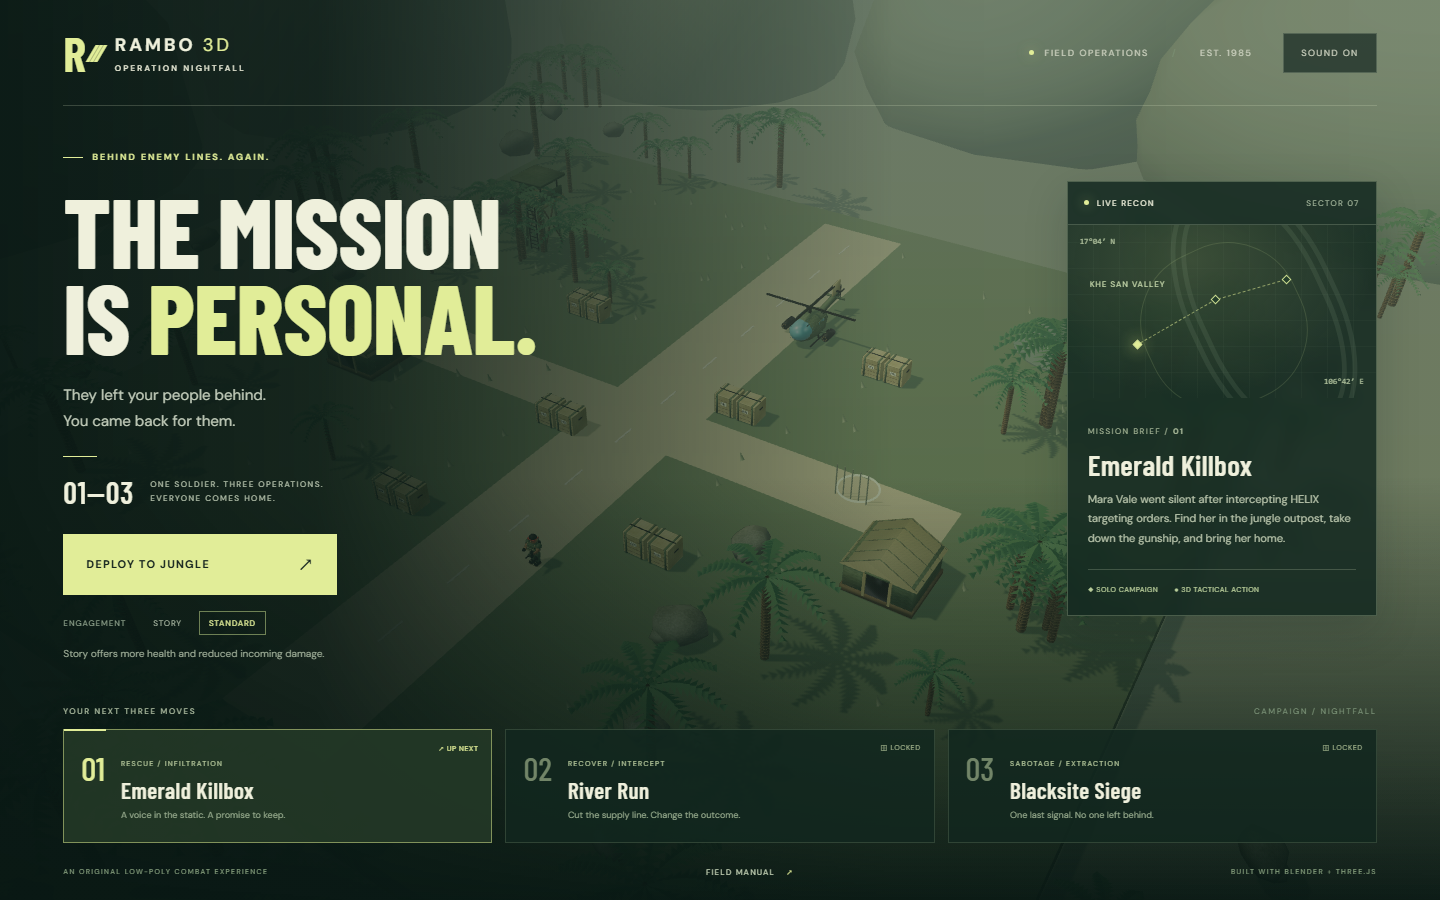
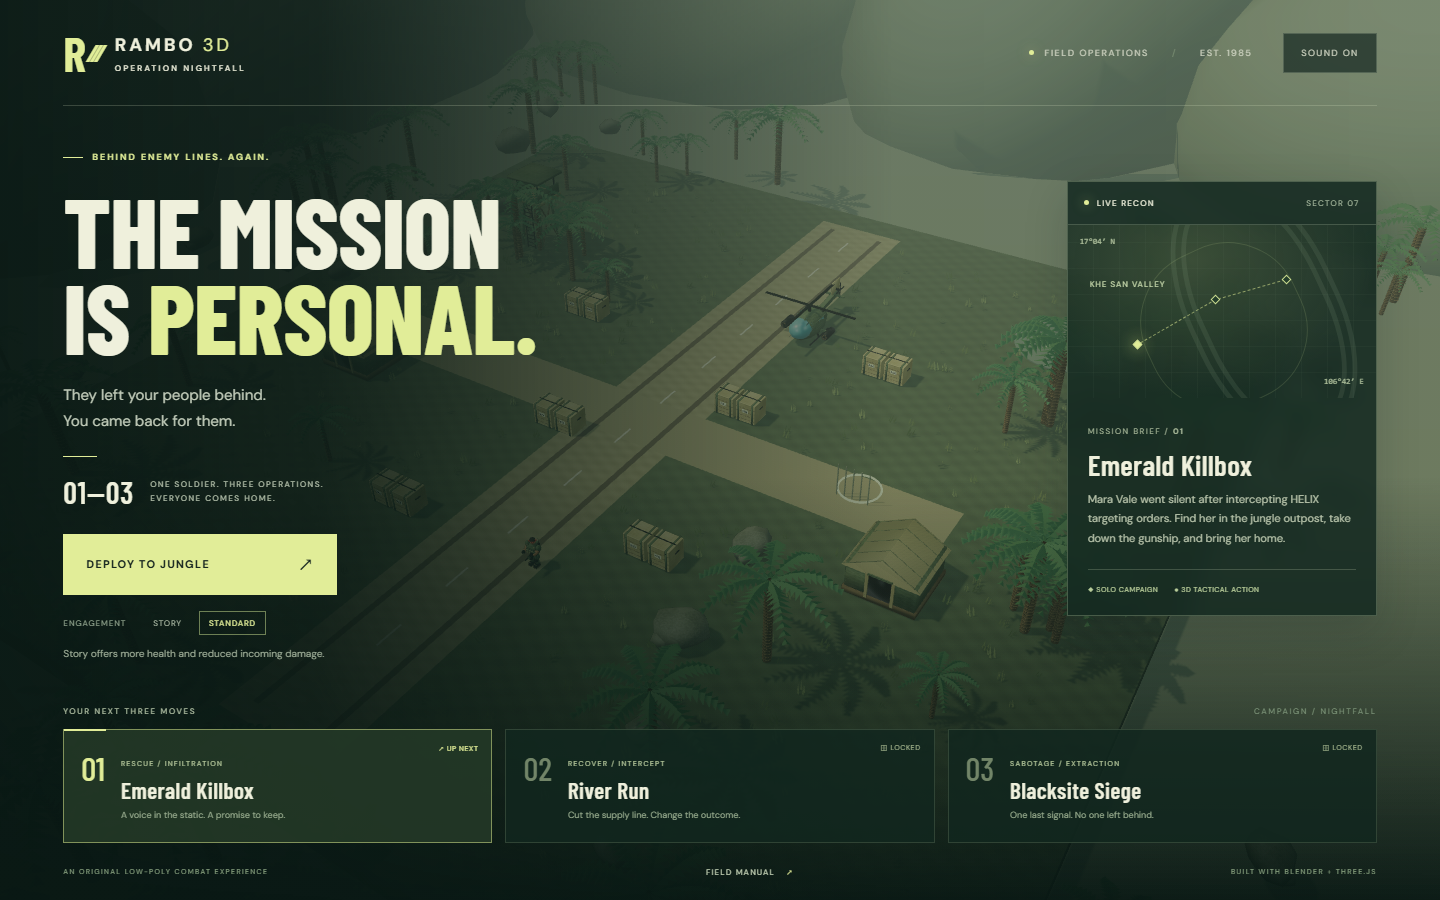
Improve environment surfaces vegetation water and combat effects

diff --git a/src/world.ts b/src/world.ts
@@ -1,3 +1,4 @@
+import { surface, grassGeometry } from "./surfaces";
 import * as T from "three";
 import { RoomEnvironment } from "three/addons/environments/RoomEnvironment.js";
 import { GLTFLoader } from "three/addons/loaders/GLTFLoader.js";
@@ -86,6 +87,10 @@ export function model(name: string, x = 0, z = 0, scale = 1) {
 export class World {
   scene = new T.Scene();
   private missionIndex = 0;
+  private soilMap = surface("soil");
+  private roadMap = surface("road");
+  private waterMap = surface("water");
+  private wind = { value: 0 };
   camera = new T.PerspectiveCamera(43, 1, 0.1, 230);
   renderer: T.WebGLRenderer;
   terrain = new T.Group();
@@ -178,7 +183,14 @@ export class World {
     const mission = MISSIONS[index];
     this.scene.background = new T.Color(mission.fog);
     this.scene.fog = new T.FogExp2(mission.fog, 0.009);
-    const ground = this.mat(mission.ground);
+    this.soilMap.repeat.set(18, 18);
+    this.roadMap.repeat.set(2, 22);
+    this.waterMap.repeat.set(9, 2);
+    const ground = this.mat(mission.ground, {
+      map: this.soilMap,
+      bumpMap: this.soilMap,
+      bumpScale: 0.09,
+    });
     this.mesh(new T.BoxGeometry(66, 1.6, 66), ground, 0, -0.85, 0);
     this.mesh(
       new T.PlaneGeometry(240, 240),
@@ -187,11 +199,19 @@ export class World {
       -1.68,
       0,
     ).rotation.x = -Math.PI / 2;
-    const road = this.mat(index === 2 ? 0x797767 : 0x8b8960);
+    const road = this.mat(index === 2 ? 0x797767 : 0x8b8960, {
+      map: this.roadMap,
+      bumpMap: this.roadMap,
+      bumpScale: 0.035,
+    });
     this.mesh(new T.PlaneGeometry(7, 61), road, 0, 0.005, 0).rotation.x =
       -Math.PI / 2;
     this.mesh(new T.PlaneGeometry(42, 4.5), road, 0, 0.015, 1).rotation.x =
       -Math.PI / 2;
+    const rut = this.mat(0x514c39, { map: this.roadMap, roughness: 1 });
+    for (const x of [-2.1, 2.1])
+      this.mesh(new T.PlaneGeometry(0.38, 59), rut, x, 0.018, 0).rotation.x =
+        -Math.PI / 2;
     // Broken center-line markings give the miniature road a readable scale.
     const line = this.mat(0xbab88a);
     for (let z = -27; z < 28; z += 5)
@@ -199,7 +219,12 @@ export class World {
     if (index === 1) {
       this.water = this.mesh(
         new T.PlaneGeometry(66, 7),
-        this.mat(0x438f91, { metalness: 0.32, roughness: 0.25 }),
+        this.mat(0x28545a, {
+          metalness: 0.42,
+          roughness: 0.19,
+          bumpMap: this.waterMap,
+          bumpScale: 0.18,
+        }),
         0,
         0.04,
         -14,
@@ -252,13 +277,32 @@ export class World {
       g.rotation.y = rand() * 6.28;
       this.terrain.add(g);
     }
-    const grass = this.mat(0x71805a);
-    for (let i = 0; i < 95; i++) {
+    const grass = this.mat(0x657644, { side: T.DoubleSide });
+    grass.onBeforeCompile = (shader) => {
+      shader.uniforms.windTime = this.wind;
+      shader.vertexShader = "uniform float windTime;\n" + shader.vertexShader;
+      shader.vertexShader = shader.vertexShader.replace(
+        "#include <begin_vertex>",
+        "#include <begin_vertex>\n transformed.x += sin(windTime*1.4+position.x*2.0+position.z)*0.045*max(0.0,position.y);",
+      );
+    };
+    for (let i = 0; i < 650; i++) {
       const x = (rand() - 0.5) * 58,
         z = (rand() - 0.5) * 58;
-      if (Math.abs(x) < 4) continue;
-      const o = this.mesh(new T.ConeGeometry(0.18, 0.6, 3), grass, x, 0.27, z);
-      o.rotation.z = 0.2;
+      if (
+        Math.abs(x) < 4 ||
+        Math.abs(z - 1) < 2.5 ||
+        (index === 1 && Math.abs(z + 14) < 4) ||
+        COVER.some(
+          (b) =>
+            Math.abs(x - b.x) < b.w / 2 + 0.4 &&
+            Math.abs(z - b.z) < b.d / 2 + 0.4,
+        )
+      )
+        continue;
+      const o = this.mesh(grassGeometry(), grass, x, 0.01, z);
+      o.rotation.y = rand() * Math.PI * 2;
+      o.scale.setScalar(0.7 + rand() * 0.8);
     }
     for (let i = 0; i < 12; i++) {
       const a = (i * Math.PI * 2) / 12;
@@ -351,6 +395,11 @@ export class World {
     this.renderer.setSize(innerWidth, innerHeight);
   }
   render(time: number, focus: T.Vector3, menu: boolean, reduced: boolean) {
+    this.wind.value = reduced ? 0 : time;
+    this.waterMap.offset.set(
+      reduced ? 0 : time * 0.012,
+      reduced ? 0 : time * 0.006,
+    );
     const target = menu ? new T.Vector3(6, 0, 1) : focus;
     const desired = menu
       ? new T.Vector3(40 + (reduced ? 0 : Math.sin(time * 0.07) * 2), 43, 51)

diff --git a/src/game.ts b/src/game.ts
@@ -51,6 +51,8 @@ type Effect = {
   mesh: T.Mesh<T.IcosahedronGeometry, T.MeshBasicMaterial>;
   life: number;
   max: number;
+  velocity?: T.Vector3;
+  smoke?: boolean;
 };
 export class Game {
   world: World;
@@ -223,10 +225,39 @@ export class Game {
         0.7 + Math.random(),
         z + (Math.random() - 0.5) * (big ? 2 : 0.5),
       );
-      mesh.scale.setScalar(big ? 1.7 : 1);
+      mesh.scale.setScalar(big ? 1.4 : 0.35);
       this.world.actors.add(mesh);
-      this.effects.push({ mesh, life: 0.3 + Math.random() * 0.3, max: 0.6 });
+      this.effects.push({
+        mesh,
+        life: 0.3 + Math.random() * 0.3,
+        max: 0.6,
+        velocity: new T.Vector3(
+          (Math.random() - 0.5) * 5,
+          2 + Math.random() * 3,
+          (Math.random() - 0.5) * 5,
+        ),
+      });
     }
+    if (big)
+      for (let i = 0; i < 8; i++) {
+        const mesh = new T.Mesh(this.effectGeo, this.effectMat.clone());
+        mesh.material.color.setHex(0x55534d);
+        mesh.material.depthWrite = false;
+        mesh.position.set(
+          x + (Math.random() - 0.5),
+          0.7,
+          z + (Math.random() - 0.5),
+        );
+        mesh.scale.setScalar(2 + Math.random());
+        this.world.actors.add(mesh);
+        this.effects.push({
+          mesh,
+          life: 1.8,
+          max: 1.8,
+          smoke: true,
+          velocity: new T.Vector3(0.25, 1.1 + Math.random(), 0.15),
+        });
+      }
     this.onSound(big ? "explosion" : "hit");
   }
   shoot(
@@ -237,6 +268,17 @@ export class Game {
     damage: number,
     speed = enemy ? 11 : 45,
   ) {
+    const flash = new T.Mesh(this.effectGeo, this.effectMat.clone());
+    flash.position.set(
+      x + Math.sin(angle) * 0.7,
+      1.1,
+      z + Math.cos(angle) * 0.7,
+    );
+    flash.scale.set(0.32, 0.32, 0.8);
+    flash.rotation.y = angle;
+    flash.material.color.setHex(0xffe8a5);
+    this.world.actors.add(flash);
+    this.effects.push({ mesh: flash, life: 0.055, max: 0.055 });
     const mesh = new T.Mesh(
       this.bulletGeo,
       enemy ? this.bulletEnemy : this.bulletFriendly,
@@ -725,9 +767,13 @@ export class Game {
     for (let i = this.effects.length - 1; i >= 0; i--) {
       const e = this.effects[i];
       e.life -= dt;
-      e.mesh.position.y += dt * 1.8;
-      e.mesh.scale.multiplyScalar(1 + dt * 2);
-      e.mesh.material.opacity = Math.max(0, e.life / e.max);
+      if (e.velocity) {
+        e.mesh.position.addScaledVector(e.velocity, dt);
+        if (!e.smoke) e.velocity.y -= dt * 8;
+      } else e.mesh.position.y += dt * 1.8;
+      e.mesh.scale.multiplyScalar(1 + dt * (e.smoke ? 0.7 : 2));
+      e.mesh.material.opacity =
+        Math.max(0, e.life / e.max) * (e.smoke ? 0.45 : 1);
       if (e.life <= 0) {
         this.world.actors.remove(e.mesh);
         e.mesh.material.dispose();

diff --git a/src/surfaces.ts b/src/surfaces.ts
@@ -1,0 +1,63 @@
+import * as T from "three";
+/** Deterministic tileable surface maps shared by the three environments. */
+export function surface(kind: "soil" | "road" | "water") {
+  const size = 256,
+    data = new Uint8Array(size * size * 4);
+  const noise = (x: number, y: number, n: number) => {
+    const fx = (x / size) * n,
+      fy = (y / size) * n,
+      ix = Math.floor(fx),
+      iy = Math.floor(fy);
+    const smooth = (v: number) => v * v * (3 - 2 * v),
+      u = smooth(fx - ix),
+      v = smooth(fy - iy);
+    const h = (a: number, b: number) => {
+      const t = Math.sin((a % n) * 127.1 + (b % n) * 311.7) * 43758.5453;
+      return t - Math.floor(t);
+    };
+    return (
+      (h(ix, iy) * (1 - u) + h(ix + 1, iy) * u) * (1 - v) +
+      (h(ix, iy + 1) * (1 - u) + h(ix + 1, iy + 1) * u) * v
+    );
+  };
+  let seed = kind === "soil" ? 771 : 91;
+  for (let y = 0; y < size; y++)
+    for (let x = 0; x < size; x++) {
+      seed = (seed * 16807) % 2147483647;
+      const grain = seed / 2147483647;
+      const wave = Math.sin(
+        (x / size) * Math.PI * 12 + Math.sin((y / size) * Math.PI * 8),
+      );
+      const large =
+        Math.sin((x / size) * Math.PI * 4) * Math.cos((y / size) * Math.PI * 6);
+      const value =
+        kind === "water"
+          ? 128 + wave * 36 + large * 16
+          : 165 + grain * 16 + noise(x, y, 5) * 22 + noise(x, y, 17) * 12;
+      const i = (y * size + x) * 4;
+      data[i] = data[i + 1] = data[i + 2] = value;
+      data[i + 3] = 255;
+    }
+  const texture = new T.DataTexture(data, size, size, T.RGBAFormat);
+  texture.wrapS = texture.wrapT = T.RepeatWrapping;
+  texture.magFilter = T.LinearFilter;
+  texture.minFilter = T.LinearMipmapLinearFilter;
+  texture.generateMipmaps = true;
+  texture.needsUpdate = true;
+  return texture;
+}
+/** Crossed, tapered grass blades with a rooted wind deformation. */
+export function grassGeometry() {
+  const vertices: number[] = [];
+  for (let i = 0; i < 5; i++) {
+    const a = i * 2.4,
+      x = Math.cos(a) * 0.13,
+      z = Math.sin(a) * 0.13,
+      h = 0.25 + i * 0.06;
+    vertices.push(x - 0.045, 0, z, x + 0.045, 0, z, x + 0.09, h, z + 0.06);
+  }
+  const geometry = new T.BufferGeometry();
+  geometry.setAttribute("position", new T.Float32BufferAttribute(vertices, 3));
+  geometry.computeVertexNormals();
+  return geometry;
+}

diff --git a/tests/environment.spec.ts b/tests/environment.spec.ts
@@ -1,0 +1,31 @@
+import { test, expect } from "@playwright/test";
+test("river surfaces render without shader errors and transient effects expire", async ({
+  page,
+}) => {
+  const errors: string[] = [];
+  page.on("pageerror", (e) => errors.push(e.message));
+  page.on("console", (m) => {
+    if (m.type() === "error") errors.push(m.text());
+  });
+  await page.goto("/");
+  await expect(page.locator("#deploy")).toBeEnabled();
+  await page.locator("#deploy").click();
+  const result = await page.evaluate(() => {
+    const { game: g, world: w, input } = (window as any).__nightfall;
+    g.start(1, { armor: 0, power: 0, mobility: 0 }, "story");
+    g.onSound = () => {};
+    g.enemies.forEach((e: any) => (e.hp = 0));
+    g.pos.set(0, 0.36, -14);
+    g.spark(5, -12, true);
+    const smoke = g.effects.filter((e: any) => e.smoke).length;
+    for (let i = 0; i < 150; i++)
+      g.update(1 / 60, { ...input, x: 0, z: 0, fire: false });
+    w.render(5, g.pos, false, false);
+    return { smoke, effects: g.effects.length, water: !!w.water };
+  });
+  expect(result.smoke).toBe(8);
+  expect(result.effects).toBe(0);
+  expect(result.water).toBe(true);
+  await page.screenshot({ path: "docs/environment-upgrade.png" });
+  expect(errors).toEqual([]);
+});

diff --git a/docs/ENVIRONMENT_UPGRADE.md b/docs/ENVIRONMENT_UPGRADE.md
@@ -1,0 +1,7 @@
+# Environment and combat presentation pass
+
+Implemented textured soil/road shading with shared procedural surface maps, road tire ruts, tapered grass clusters with rooted wind animation, water normal animation and reflection response. Grass avoids roads, authored cover and the river. The existing gameplay ground heights and collision footprints remain unchanged.
+
+Combat gains muzzle flashes, ballistic impact particles with gravity, and fading smoke after explosions. Effects reuse geometry, own disposable materials, expire within their lifetime and are cleared on mission restart. Reduced-motion mode freezes environmental animation. These changes extend the Blender asset pass; they do not claim AAA production quality or replace the outstanding sculpted/skinned character and vehicle-animation work described in ART_UPGRADE.md.
+
+Validation: production build, Node collision/asset/progression tests, browser gameplay and animation tests, plus a river shader/effect-cleanup check. The in-engine screenshot is docs/environment-upgrade.png. Performance is guarded through batching and shared maps; representative-device frame-rate profiling remains outstanding.
